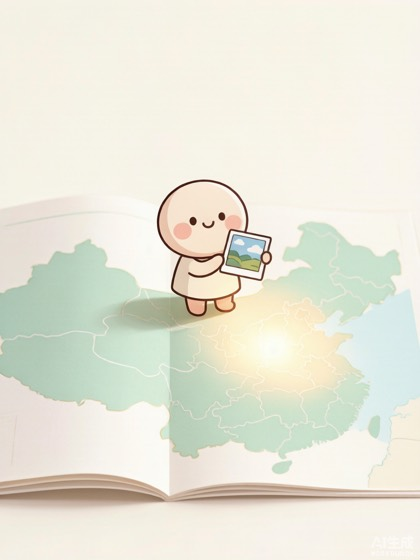
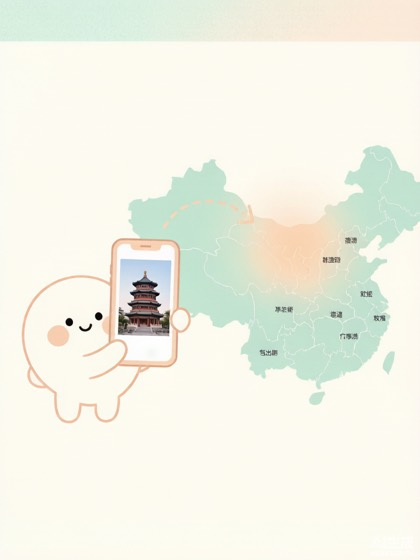
ui: 新手引导第1步插画改为'上传照片→高亮地区'过程，文案改'记录足迹'

diff --git a/pages/index/index.js b/pages/index/index.js
@@ -242,7 +242,7 @@ Page({
     showOnboard: false,
     onboardIndex: 0,
     onboardSteps: [
-      { emoji: '🗺', title: '点亮地图', desc: '点省份或大洲，上传旅途照片，它就会亮起来', img: '/assets/onboard/step1.jpg' },
+      { emoji: '📸', title: '记录足迹', desc: '点省份或大洲，上传旅途照片，把去过的地方留下来', img: '/assets/onboard/step1.jpg' },
       { emoji: '🌍', title: '中国 ↔ 全球', desc: '右上角一键切换，去看更大的世界', img: '/assets/onboard/step2.jpg' },
       { emoji: '🎨', title: '生成海报', desc: '挑个喜欢的模板，生成专属旅行地图', img: '/assets/onboard/step3.jpg' },
       { emoji: '💌', title: '分享回忆', desc: '存相册或转发给朋友，把足迹留住', img: '/assets/onboard/step4.jpg' }
